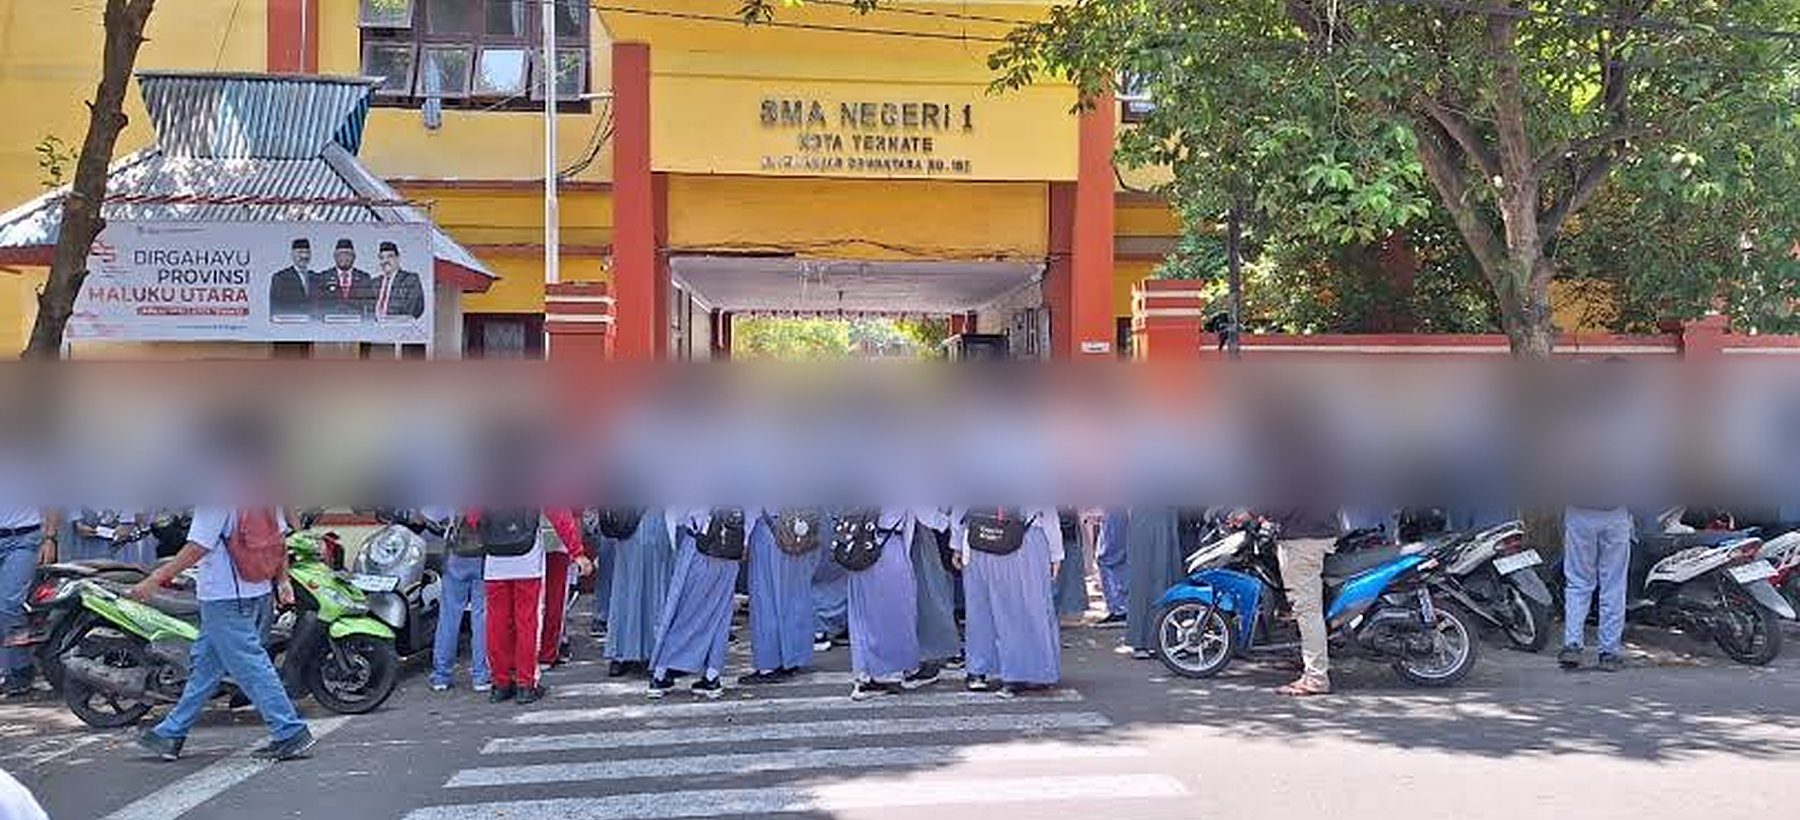
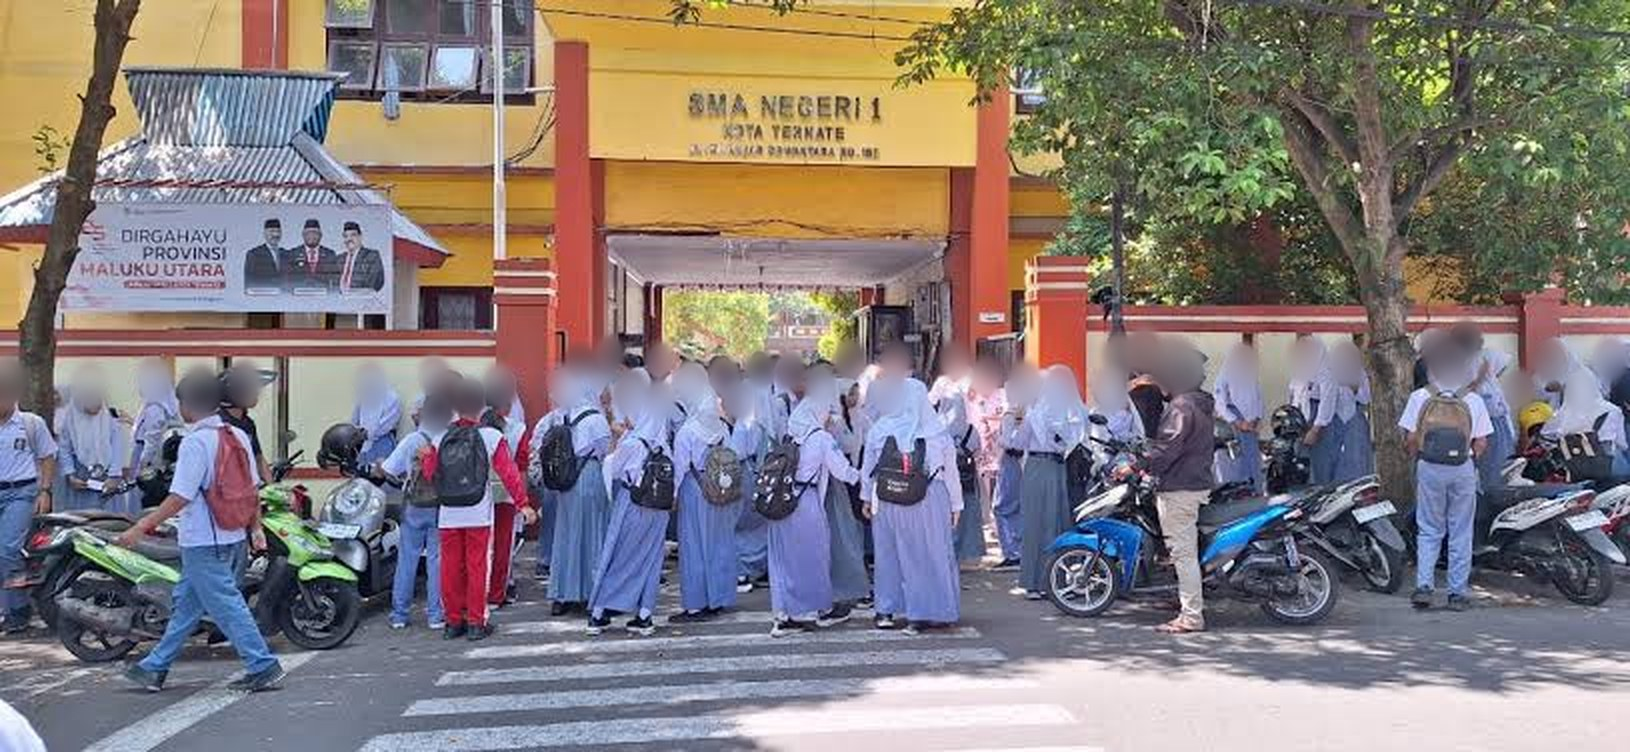
Slider: 3 foto kegiatan baru dan foto gerbang dengan wajah diburamkan per orang

diff --git a/api/prisma/seed.js b/api/prisma/seed.js
@@ -44,8 +44,12 @@ const SCHOOL_PROFILE = {
 const DEFAULT_SLIDERS = [
   { title: "Gedung Utama SMA Negeri 1 Kota Ternate", imageUrl: "/assets/slider/gedung-utama.jpg", sortOrder: 0, pub: true },
   { title: "Halaman & Gedung Sekolah", imageUrl: "/assets/slider/halaman-sekolah.jpg", sortOrder: 1, pub: true },
-  /* wajah siswa sudah diburamkan */
+  /* wajah siswa diburamkan per orang */
   { title: "Gerbang SMA Negeri 1 Kota Ternate", imageUrl: "/assets/slider/gerbang-sekolah.jpg", sortOrder: 2, pub: true },
+  /* wajah setiap orang diburamkan satu per satu */
+  { title: "Sosialisasi Program Guru Transformatif bersama Putera Sampoerna Foundation", imageUrl: "/assets/slider/sosialisasi-guru-transformatif.jpg", sortOrder: 3, pub: true },
+  { title: "Polantas Goes to School: Sosialisasi Keselamatan Berlalu Lintas", imageUrl: "/assets/slider/polantas-goes-to-school.jpg", sortOrder: 4, pub: true },
+  { title: "Gedung Depan SMA Negeri 1 Kota Ternate", imageUrl: "/assets/slider/gedung-depan.jpg", sortOrder: 5, pub: true },
   /* tampil paling depan (sortOrder negatif) */
   { title: "Keluarga Besar Guru SMA Negeri 1 Kota Ternate", imageUrl: "/assets/slider/guru-smansa.jpg", sortOrder: -1, pub: true },
 ];
